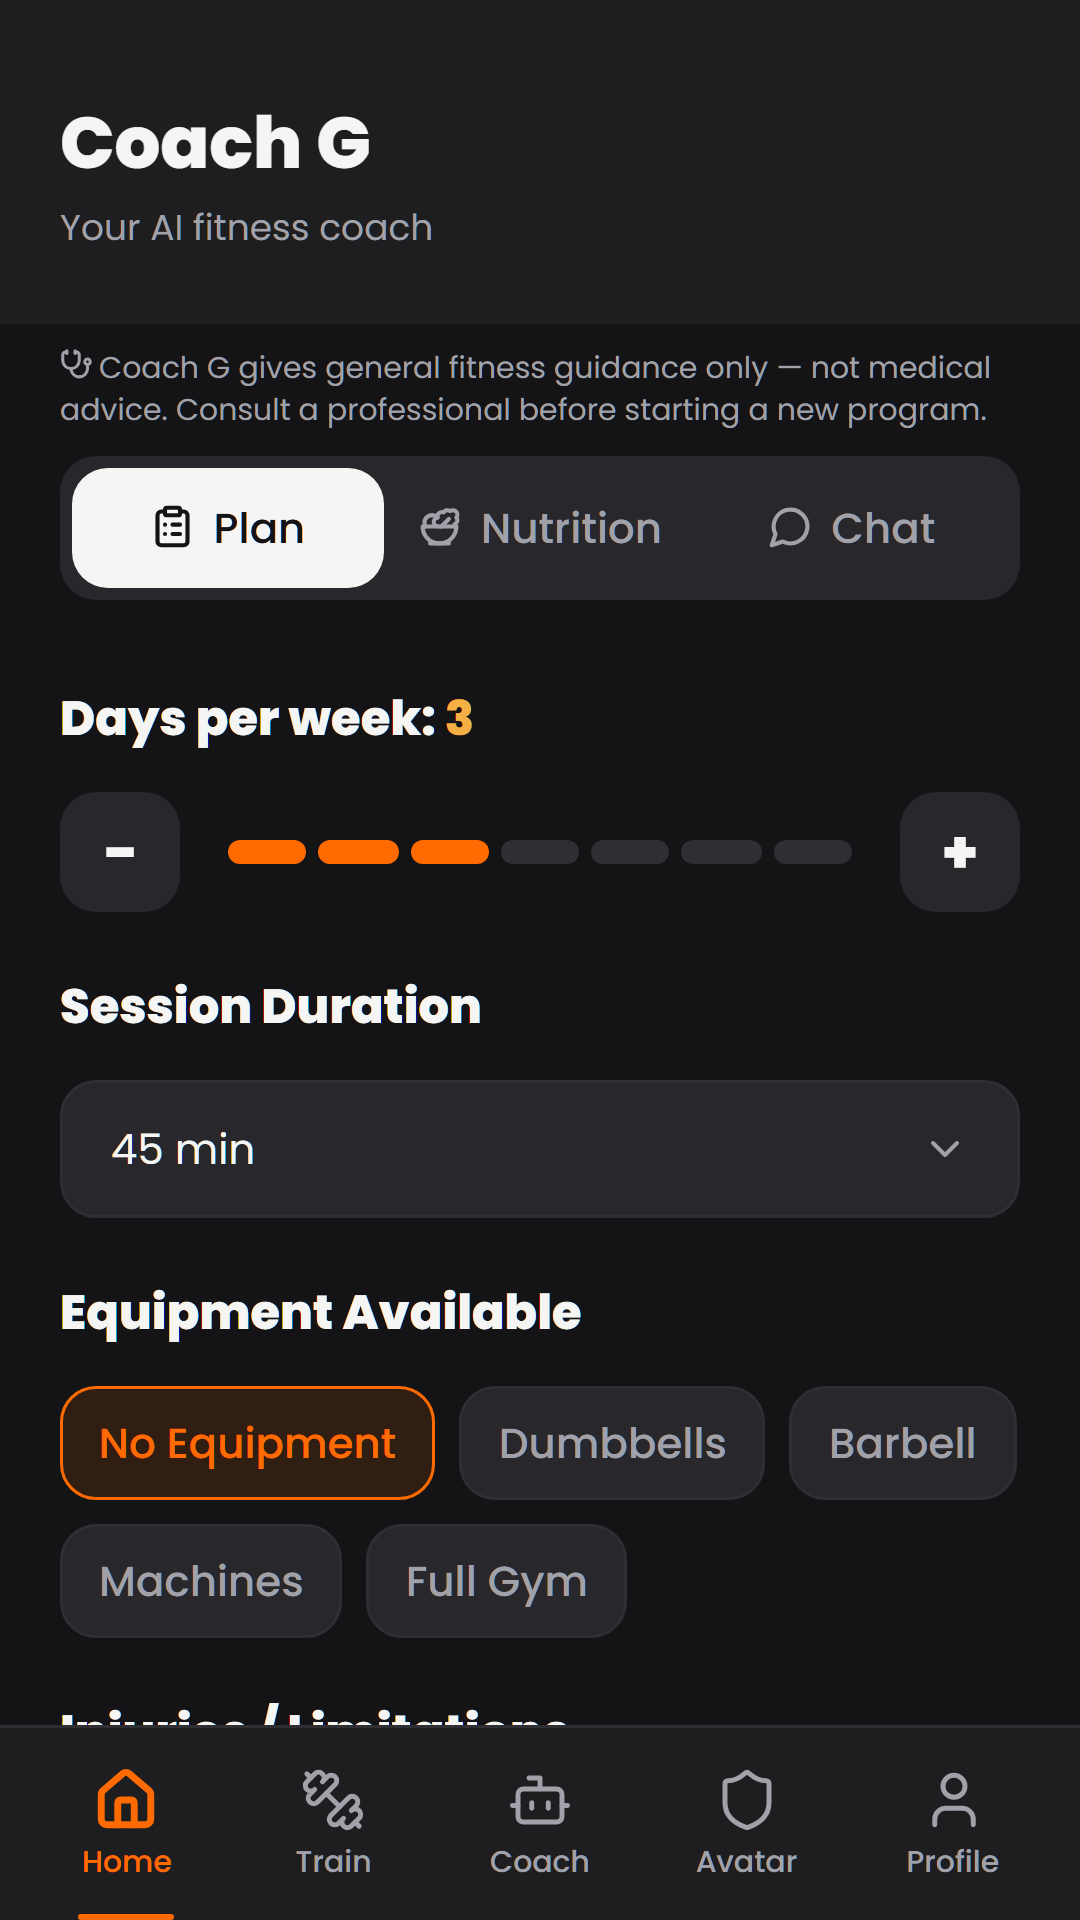
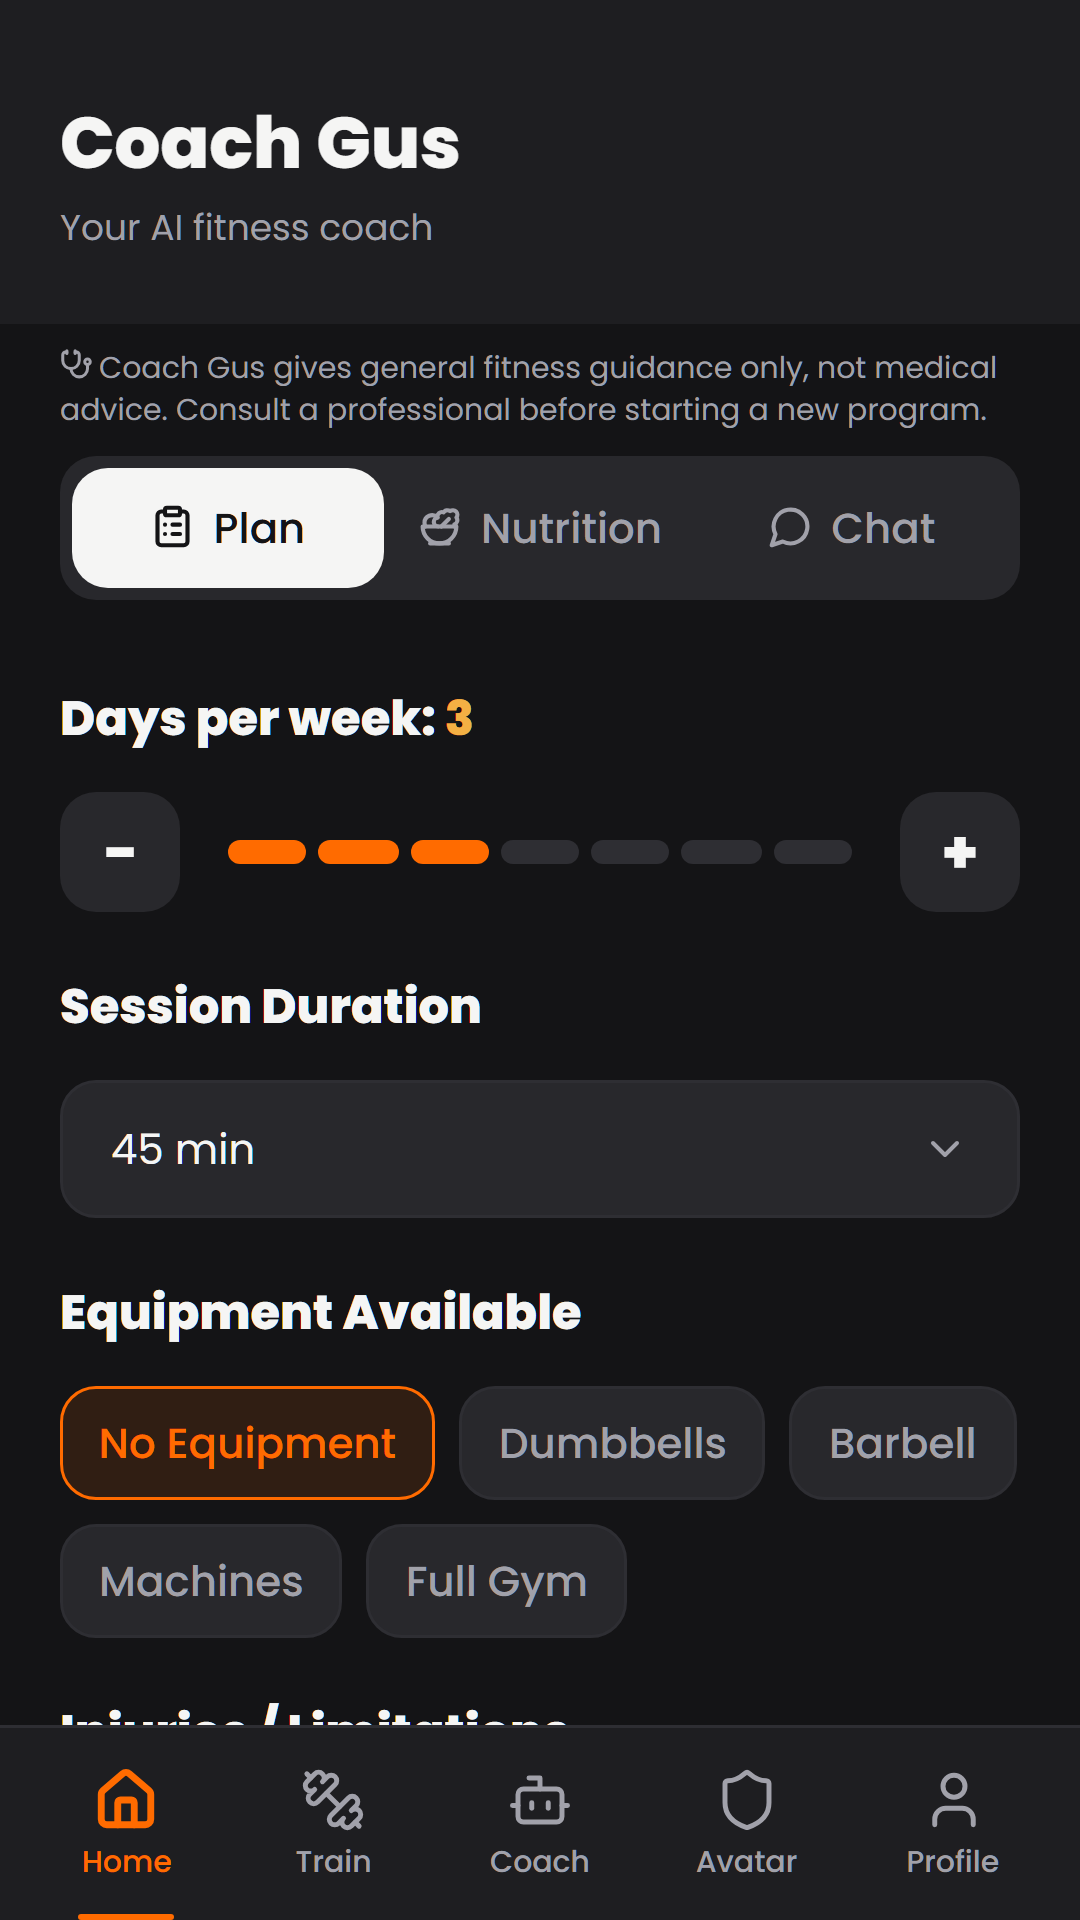
feat(coach): the coach is Coach Gus, and llms.txt catches up
The owner picked "Gus" on 2026-11-15. COACH_NAME changes in both places it
lives (src/lib/coach.js and supabase/functions/_shared/coach.ts); the
pup's own label drops "your coach" and onboarding drops "your coach" after
the name, both of which now said coach twice. README and the project
overview use the new name; dated docs and applied migrations keep the old
one as history.

llms.txt described the app before phases 14 to 16: Bronze to Apex, five
avatar classes drawn as layered SVG. It now says Beginner to Elite, ten
preset athletes in four 2D pictures each, the Kit Bag, and Coach Gus.
tests/seo.spec.js follows: it checks for "2D pictures" and for no "3D",
instead of the old "2D SVG" avatar claim.

store-assets/ recaptured: Home shows the coach tip card, the Coach screen
is titled Coach Gus.

The server half of the rename needs `npx supabase functions deploy coach-g
stripe-webhook`: merging to main did not redeploy them on 2026-11-15.

Changed region(s): [[0.2139, 0.1875, 0.9167, 0.2188], [0.3361, 0.0625, 0.4278, 0.0938]]

diff --git a/vite.config.js b/vite.config.js
@@ -80,20 +80,23 @@ function seoFiles() {
       emit('llms.txt', [
         '# GameFit',
         '',
-        '> A mobile-first fitness app that turns workouts into an RPG. Logging a',
-        '> workout earns XP and coins, keeps a streak alive, levels you through',
-        '> ranks (Bronze to Apex), and evolves a layered SVG avatar.',
+        '> A mobile-first fitness app that turns workouts into a game. Logging a',
+        '> workout earns XP and coins, keeps a streak alive, and moves you up the',
+        `> ranks from Beginner to Elite, with ${COACH_NAME}, a husky, as your coach.`,
         '',
         '## What it does',
         '',
         '- Log workouts and earn XP, coins and streaks. All economy maths runs',
         '  server-side in Postgres functions, so scores cannot be edited by the client.',
-        '- Progress through ranks: Bronze, Silver, Gold, Platinum, Apex, each with',
-        '  Roman-numeral sub-ranks.',
-        '- Evolve an avatar across 5 classes and 5 tiers, drawn as layered SVG',
-        '  (not 3D), with two body rigs and unlockable gear.',
+        '- Progress through five ranks: Beginner, Novice, Intermediate, Advanced,',
+        '  and Elite. Each rank below Elite has Roman-numeral sub-ranks.',
+        '- Train as one of ten preset athletes across five disciplines (Lifter,',
+        '  Runner, Fighter, Gymnast, and Yogi). Each athlete has four 2D pictures:',
+        '  relaxed, celebrating, elite kit, and rest day.',
+        '- Spend coins in the Kit Bag on real sports gear: one floor item, one',
+        '  wearable item, and one finish effect that plays when a workout ends.',
         '- Compete on a leaderboard against other athletes.',
-        `- Chat with "${COACH_NAME}", an AI fitness coach built on Anthropic Claude Haiku.`,
+        `- Chat with ${COACH_NAME}, an AI fitness coach built on Anthropic Claude Haiku.`,
         '  Free accounts get 10 coaching messages a month; Premium is unlimited.',
         '',
         '## Facts that are commonly got wrong',
@@ -102,7 +105,7 @@ function seoFiles() {
         // deny it puts that word in the document, where both a careless reader
         // and a keyword check will find it.
         '- The AI coach is built on Anthropic Claude Haiku.',
-        '- The avatar is drawn as layered 2D SVG.',
+        '- The athletes are 2D pictures, and the coach is a 2D SVG drawing.',
         '- Premium is sold on the web only. The iOS and Android apps never sell',
         '  or link to purchases, per App Store and Play Store policy.',
         '',

diff --git a/src/lib/coach.js b/src/lib/coach.js
@@ -1,8 +1,10 @@
 // The AI coach's identity, in one place. The coach is the pup: the same name
 // is used in the chat, onboarding, notifications, legal pages and the
-// server prompt (supabase/functions/coach-g/index.ts keeps its own copy,
-// because Edge Functions cannot import from src/).
-export const COACH_NAME = 'Coach G';
+// server prompt (supabase/functions/_shared/coach.ts keeps its own copy,
+// because Edge Functions cannot import from src/). Owner's pick on
+// 2026-11-15; it was "Coach G" before. The Edge Function folder is still
+// named coach-g: that is an endpoint path, not something people see.
+export const COACH_NAME = 'Coach Gus';
 
 /**
  * What the coach says on Home, from the player's state. Pure, so it can be

diff --git a/tests/seo.spec.js b/tests/seo.spec.js
@@ -171,7 +171,10 @@ test.describe('crawler files', () => {
     // Guards the three facts the old marketing copy got wrong.
     expect(body).toMatch(/Claude/);
     expect(body).not.toMatch(/OpenAI|GPT-4/);
-    expect(body).toMatch(/2D SVG/);
+    // The avatars became 2D pictures of preset athletes in phase 14; the
+    // coach pup is the drawn SVG now. Either way, nothing here is 3D.
+    expect(body).toMatch(/2D pictures/);
+    expect(body).not.toMatch(/\b3D\b/);
   });
 });
 

diff --git a/src/components/brand/CoachPup.jsx b/src/components/brand/CoachPup.jsx
@@ -235,7 +235,7 @@ export default function CoachPup({
     timer.current = setTimeout(() => setReacting(false), REACTION_MS);
     onActivate?.();
   };
-  const label = title ?? `${COACH_NAME}, your coach`;
+  const label = title ?? COACH_NAME;
   const a11y = interactive
     ? { role: 'button', tabIndex: 0, 'aria-label': `${label}. Tap to cheer`, onClick: activate,
       onKeyDown: (e) => { if (e.key === 'Enter' || e.key === ' ') { e.preventDefault(); activate(); } } }

diff --git a/src/pages/Onboarding.jsx b/src/pages/Onboarding.jsx
@@ -254,7 +254,7 @@ export default function Onboarding() {
   const steps = [
     // 0 — Gender
     {
-      mascotText: `Hi, I'm ${COACH_NAME}, your coach. Let's get some basic info down.`,
+      mascotText: `Hi, I'm ${COACH_NAME}. Let's get some basic info down.`,
       pose: 'wave',
       content: (
         <div className="w-full">

diff --git a/supabase/functions/_shared/coach.ts b/supabase/functions/_shared/coach.ts
@@ -2,4 +2,4 @@
 // so this mirrors COACH_NAME in src/lib/coach.js, and tests/unit/coach.test.ts
 // fails if the two ever differ. Renaming the coach is these two lines plus a
 // deploy of coach-g and stripe-webhook.
-export const COACH_NAME = 'Coach G';
+export const COACH_NAME = 'Coach Gus';

diff --git a/docs/PROJECT_OVERVIEW.md b/docs/PROJECT_OVERVIEW.md
@@ -13,7 +13,7 @@
 GameFit is a mobile-first fitness app that reframes working out as an RPG.
 A user logs a workout, the server computes what it was worth, and they get
 XP, coins, and a streak day back. Enough of that and they climb a five-tier
-rank ladder, their layered SVG avatar gains gear, and an AI coach ("Coach G")
+rank ladder, their layered SVG avatar gains gear, and an AI coach ("Coach Gus", formerly "Coach G")
 gives advice shaped by their actual training history. A premium subscription
 unlocks unlimited AI coaching.
 
@@ -43,7 +43,7 @@ live until this one is judged ready for the domain cutover.
 |---|---|---|
 | Frontend | Vite + React 18 | `base44-app` package name is a holdover from the Base44 era, harmless |
 | UI | Tailwind CSS, Radix primitives via shadcn, framer-motion, recharts, canvas-confetti | Dark-first design system, CSS custom properties (`--gf-*`) |
-| Markdown rendering | react-markdown + remark-gfm | Renders Coach G's answers with real tables/bold instead of literal `**` |
+| Markdown rendering | react-markdown + remark-gfm | Renders Coach Gus's answers with real tables/bold instead of literal `**` |
 | Hosting | Vercel | Auto-deploys `main`; SPA rewrite in `vercel.json` so client routes don't 404 on direct load |
 | Database | Supabase Postgres | Row-Level Security + column-level `GRANT`/`REVOKE` |
 | Auth | Supabase Auth | Email/password + Google OAuth (system browser + deep link on native) |
@@ -149,7 +149,7 @@ Tables, from `supabase/migrations/`:
 | `profiles` | One row per auth user. User-editable fields (name, age, height, weight, goals, avatar config) plus server-owned economy/premium/role fields | Read own row; write only the granted columns |
 | `workouts` | Logged workout history with the XP/coins/level snapshot at time of logging | Read own rows; no direct writes |
 | `meal_logs` | Nutrition entries, optionally with a photo and AI-scored health rating | Full CRUD on own rows |
-| `ai_request_logs` | One row per Coach G request, used to enforce the 10/month free cap | Read own rows; no direct writes |
+| `ai_request_logs` | One row per Coach Gus request, used to enforce the 10/month free cap | Read own rows; no direct writes |
 | `coin_transactions` | Append-only ledger for non-workout coin movements (purchases, adjustments) | Read own rows; no direct writes |
 | `accessories` | Shop catalog (id, label, cost, category) — server-side source of truth for prices | Read-only |
 | `personal_records` | Self-reported best weight × reps per exercise, with date | Read + delete own rows; insert only via `log_pr` |
@@ -186,7 +186,7 @@ versioned (currently v3, `{version, class, body, skin_tone, hair}`) and
 `scripts/render-avatars.mjs`, which rasterizes contact sheets for every
 combination using `@resvg/resvg-js`.
 
-### Coach G (AI coaching)
+### Coach Gus (AI coaching)
 Claude Haiku, called only from the `coach-g` Edge Function so the Anthropic
 key never reaches a browser. The system prompt carries the user's profile
 (age, weight, height, BMI, goal, experience, gender) pulled server-side —
@@ -250,7 +250,7 @@ OAuth; other integrations show "Soon" rather than a fake "Connected" state.
 | `/onboarding` | 10-step onboarding | See §6 |
 | `/dashboard` | Home | Rank, XP progress, streak, quick actions |
 | `/train` | Workout logging | Timer flow + `CompletionScreen` (confetti, count-up XP/coins, badge unlocks) |
-| `/coach` | Coach G | Plan / Nutrition / Chat tabs |
+| `/coach` | Coach Gus | Plan / Nutrition / Chat tabs |
 | `/leaderboard` | Leaderboard | All-Time and This Week, own rank pinned with a percentile |
 | `/marketplace` | Coin shop | Cosmetic accessories |
 | `/avatar` | Avatar customization | Avatar / Shop / Connect tabs; body, class, skin, hair pickers |

diff --git a/CLAUDE.md b/CLAUDE.md
@@ -1046,13 +1046,21 @@ figure onboarding used to draw, and the faceless chat.
   `vite.config.js`) and in `supabase/functions/_shared/coach.ts` (the
   `coach-g` system prompt and limit message, the Premium welcome email).
   `tests/unit/coach.test.ts` fails if the two differ or if a listed file
-  spells the name out. It is still "Coach G": the owner asked for a better
-  name and has not picked one. Renaming is those two lines, then a deploy of
-  `coach-g` and `stripe-webhook`. The function's folder name stays `coach-g`;
-  it is an endpoint path, not something users see.
-- Not carried over yet: the marketing site's `Logo.astro` (separate repo)
-  still draws the phase 9 husky; `store-assets/` and the site's screens
-  predate the Home tip card.
+  spells the name out. **The coach is Coach Gus** (owner's pick, 2026-11-15;
+  it was "Coach G"). Renaming again is those two lines, then
+  `npx supabase functions deploy coach-g stripe-webhook`: merging to main
+  did NOT redeploy either function on 2026-11-15 (versions 36 and 33 stayed
+  put), so the server half needs that deploy every time. The function's
+  folder name stays `coach-g`; it is an endpoint path, not something users
+  see. README and docs/PROJECT_OVERVIEW use the new name; dated docs (audits,
+  rollout notes) and applied migrations keep the old one as history.
+- Carried over the same day: the marketing site's `Logo.astro` draws the pup
+  head from the same shape data (exported from `brand.js`, not retyped), the
+  site's favicons, apple-touch icon and OG image are this repo's files, and
+  `store-assets/` plus the site's `public/screens/` were recaptured with the
+  Home tip card. `llms.txt` now describes the athlete cast, Beginner to Elite,
+  the Kit Bag and Coach Gus; `tests/seo.spec.js` checks for "2D pictures"
+  and for no "3D" instead of the old "2D SVG" avatar claim.
 
 ## Known limitations (disclosed, not hidden)
 

diff --git a/README.md b/README.md
@@ -21,7 +21,7 @@
 
 GameFit turns training into an RPG. You log a workout, the server works out what
 it was worth, and you get XP, coins and a streak back. Enough of those and you
-climb the rank ladder, your avatar picks up better gear, and Coach G starts
+climb the rank ladder, your avatar picks up better gear, and Coach Gus starts
 giving advice shaped by your actual training history rather than generic tips.
 
 The interesting engineering problem here isn't the game layer. It's that a
@@ -30,7 +30,7 @@ XP you earned. Everything below follows from refusing to let it.
 
 ## Screens
 
-| Dashboard | Coach G | Personal records | Avatar |
+| Dashboard | Coach Gus | Personal records | Avatar |
 |:---:|:---:|:---:|:---:|
 | <img src="docs/images/screens/dashboard.png" width="190" alt="Dashboard with rank, XP and streak"> | <img src="docs/images/screens/coach.png" width="190" alt="AI coach answering with a formatted table"> | <img src="docs/images/screens/records.png" width="190" alt="Personal records table"> | <img src="docs/images/screens/avatar.png" width="190" alt="Avatar customization"> |
 | Rank, streak and weekly goal at a glance | Answers render as real tables and charts | Best lift per exercise, with PR badges | Two rigs, five classes, five tiers |
@@ -46,7 +46,7 @@ body rigs × 5 classes × 5 gear tiers, plus skin tones, hairstyles and shop
 accessories. Both rigs share gear anchor points, so all 25 class/tier gear sets
 fit either body without redrawing a single pauldron.
 
-**Coach G.** Claude Haiku, called only from an Edge Function so the API key
+**Coach Gus.** Claude Haiku, called only from an Edge Function so the API key
 never reaches a browser. Prompts carry your profile, get sanitised against
 injection, drop into a conservative mode for under-18 users, and are capped at
 10 requests a month on the free tier — counted in Postgres, not in localStorage.
